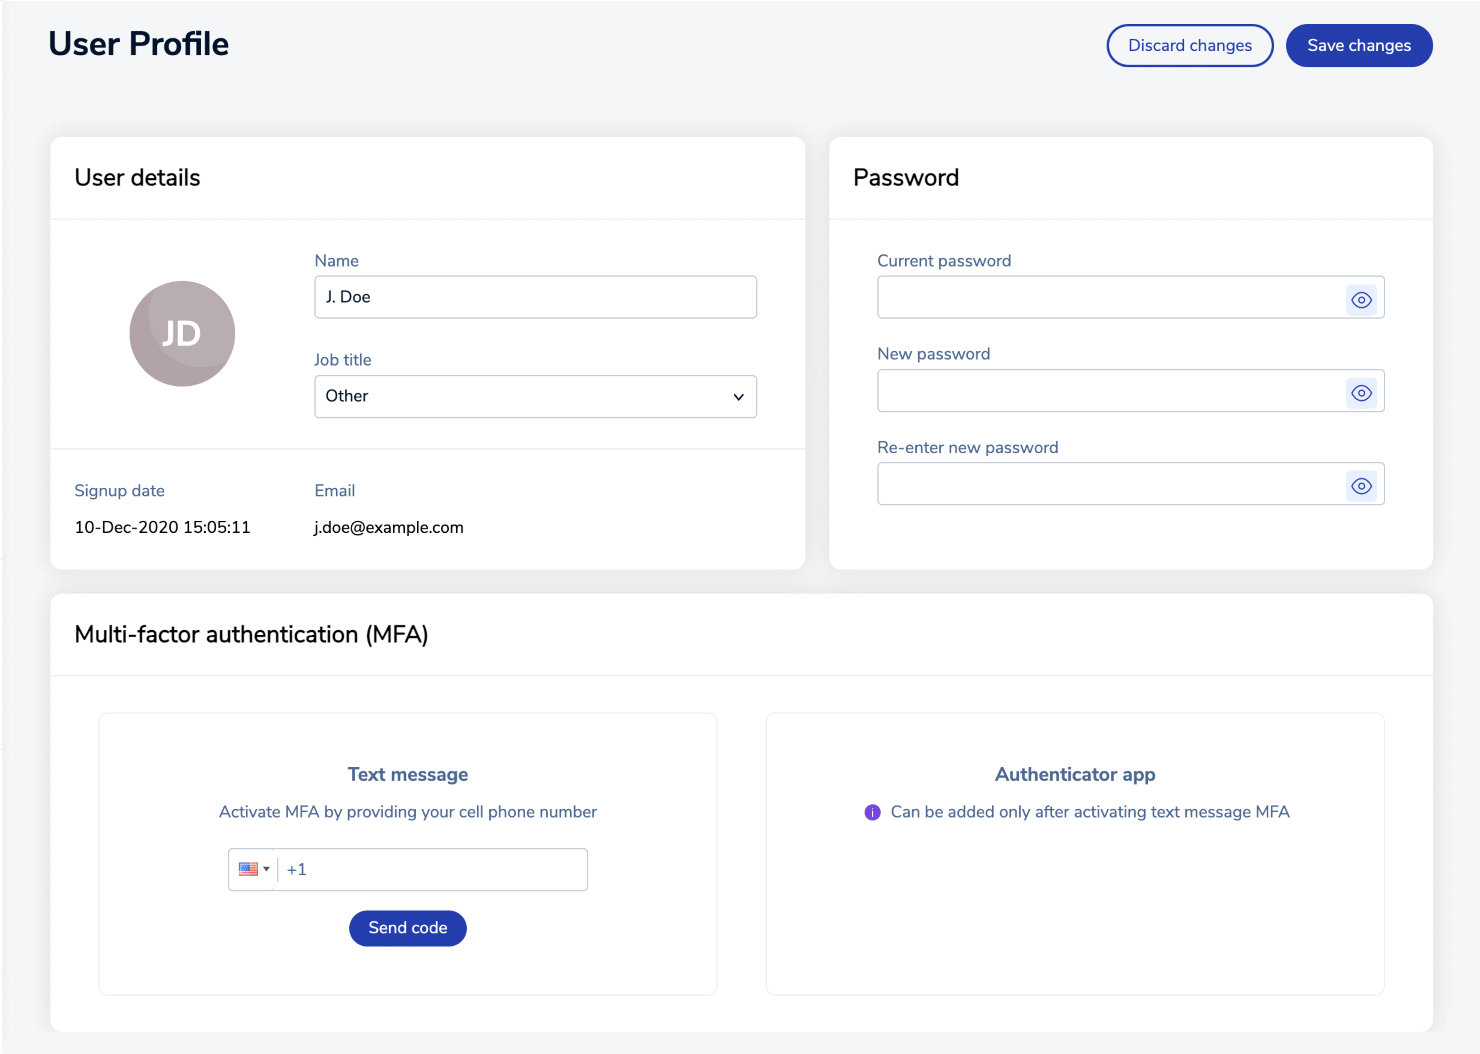
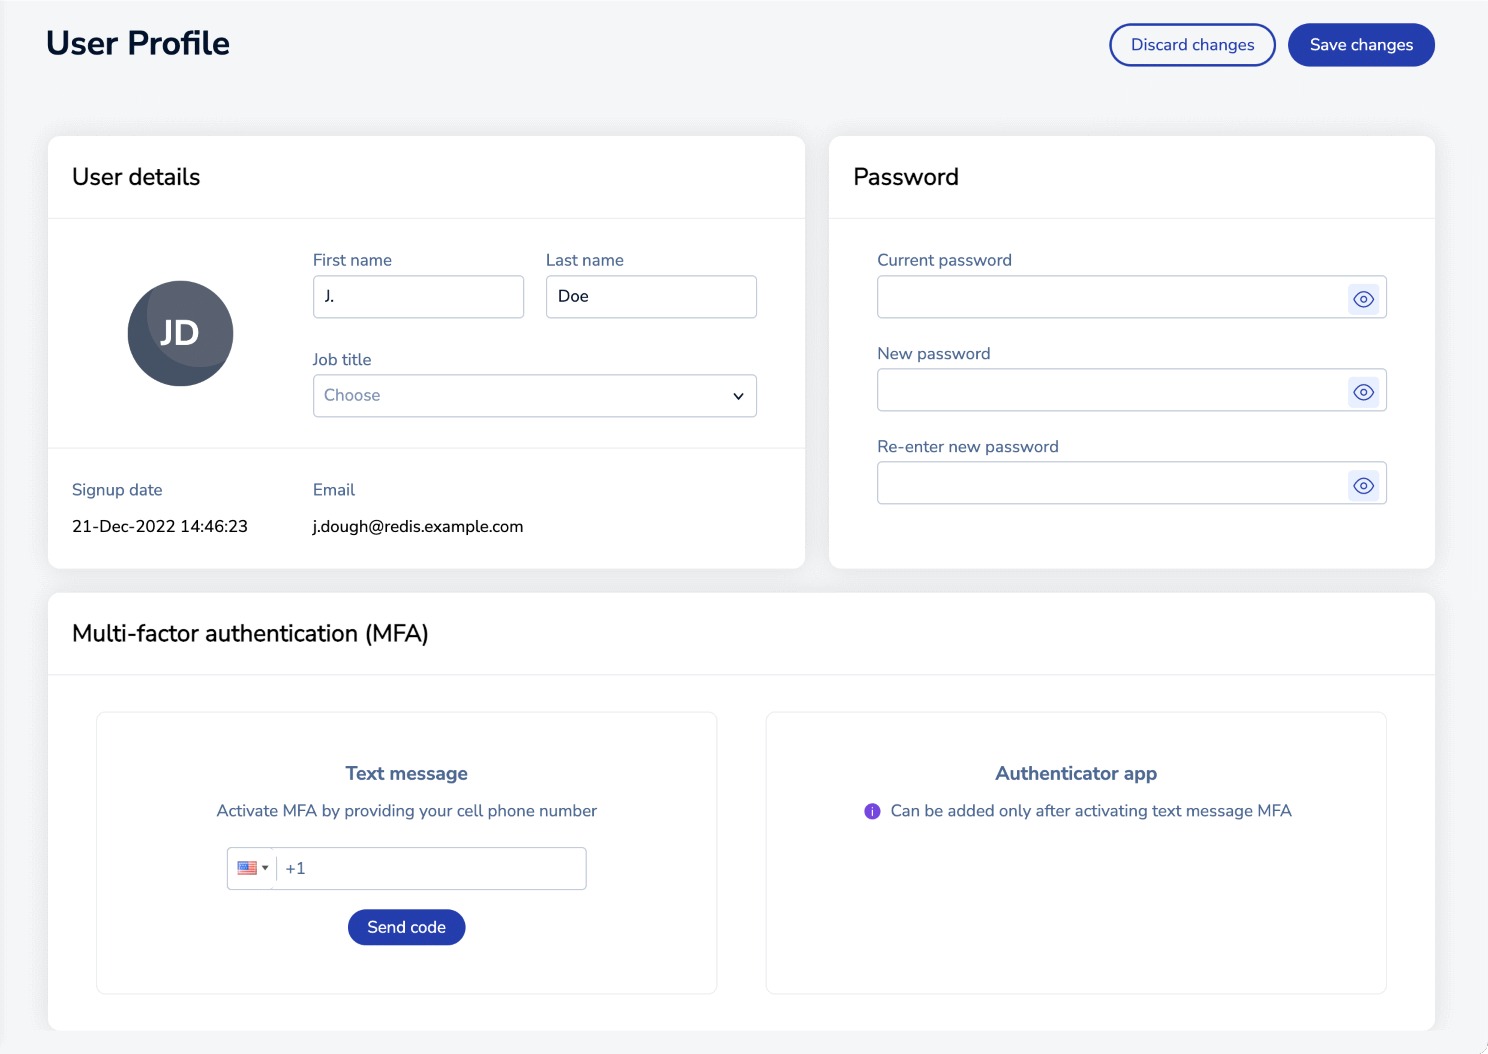
Initial draft

diff --git a/content/rc/security/access-management.md b/content/rc/security/access-management.md
@@ -51,13 +51,14 @@ If you have a large team, you can use the controls in the list footer to navigat
 
 When you add a member to your team, the **Add user** dialog appears.  
 
-{{<image filename="images/rc/access-management-add-user-dialog.png" width="50%" alt="Use the Add User dialog to specify the details for your new user." >}}{{< /image >}}
+{{<image filename="images/rc/access-mgmt-add-user-dialog.png" width="50%" alt="Use the Add User dialog to specify the details for your new user." >}}{{< /image >}}
 
 Use this dialog to specify the following values:
 
 | Setting | Description |
 |---------|-------------|
-| **Name** | Name of the user displayed in the admin console and in email messages |
+| **First Name** | First name of the user displayed in the admin console and in email messages |
+| **Last Name** | Last name of the user displayed in the admin console and in email messages |
 | **Role** | The role identifies their subscription and account privileges.  For details, see [Team management roles](#team-management-roles). |
 | **Email** | The address used for alerts and other email messages regarding the account | 
 | **Alert emails** | Enable to be notified when subscription databases cross certain thresholds, such as exceeding memory limits or latency requirements |
@@ -73,7 +74,7 @@ To edit user team details, select the user from the list and then select the **E
 
 When you do this, the **Edit user** dialog displays the details you can change.  
 
-{{<image filename="images/rc/access-management-edit-user-dialog.png" width="50%" alt="Use the Edit User dialog to change the details for a user." >}}{{< /image >}}
+{{<image filename="images/rc/access-mgmt-edit-user-dialog.png" width="50%" alt="Use the Edit User dialog to change the details for a user." >}}{{< /image >}}
 
 You can change any detail except the team member's email address.
 

diff --git a/content/rc/accounts/user-profile.md b/content/rc/accounts/user-profile.md
@@ -33,11 +33,11 @@ To review your user profile settings, select **User profile** from the Profile c
 
 This screen contains up to three sections, including:
 
-- The *User details* section includes basic information about your account, including _Name_, _Job title_, _Email_, and the date the account was created.  _Name_ and _Job title_ can be edited; the other settings are read-only.
+- The *User details* section includes basic information about your account, including _First Name_, _Last Name_, _Job title_, _Email_, and the date the account was created.  The name and job title can be edited; other settings are read-only.
 
 - The *Password* section lets you change the password for accounts created and managed by Redis Cloud. 
 
-    If you're using single sign-on, you cannot change the password using the *User Profile* screen.  Such accounts are managed by an identity provider (IdP).  For help changing (or recovering) the passwords for these accounts, consult your identity provider docs.
+    If you're using single sign-on authentication, you cannot change the password using the *User Profile* screen.  Such accounts are managed by an identity provider (IdP).  For help changing (or recovering) the passwords for these accounts, consult your identity provider docs.
 
 - The **Multi-factor authentication (MFA)** section lets you manage MFA settings for the current user account.  
 
